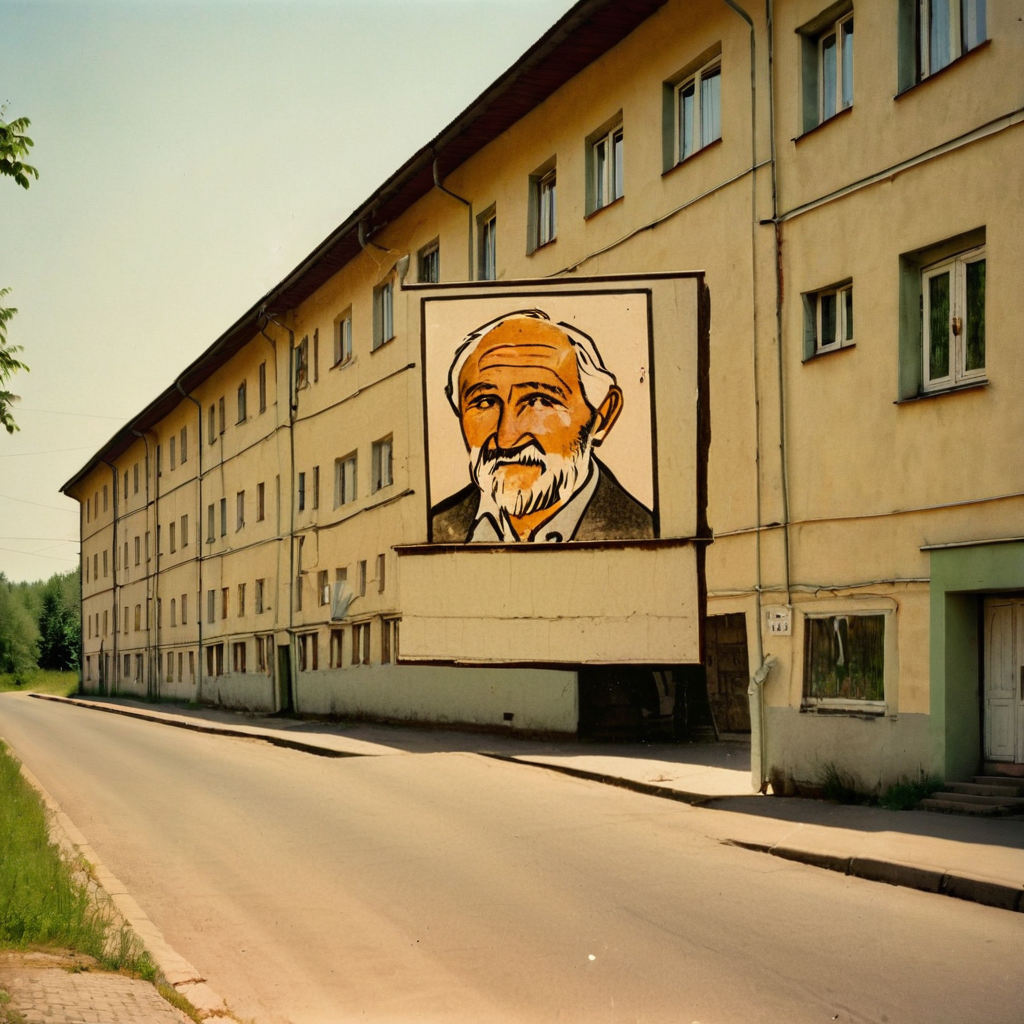
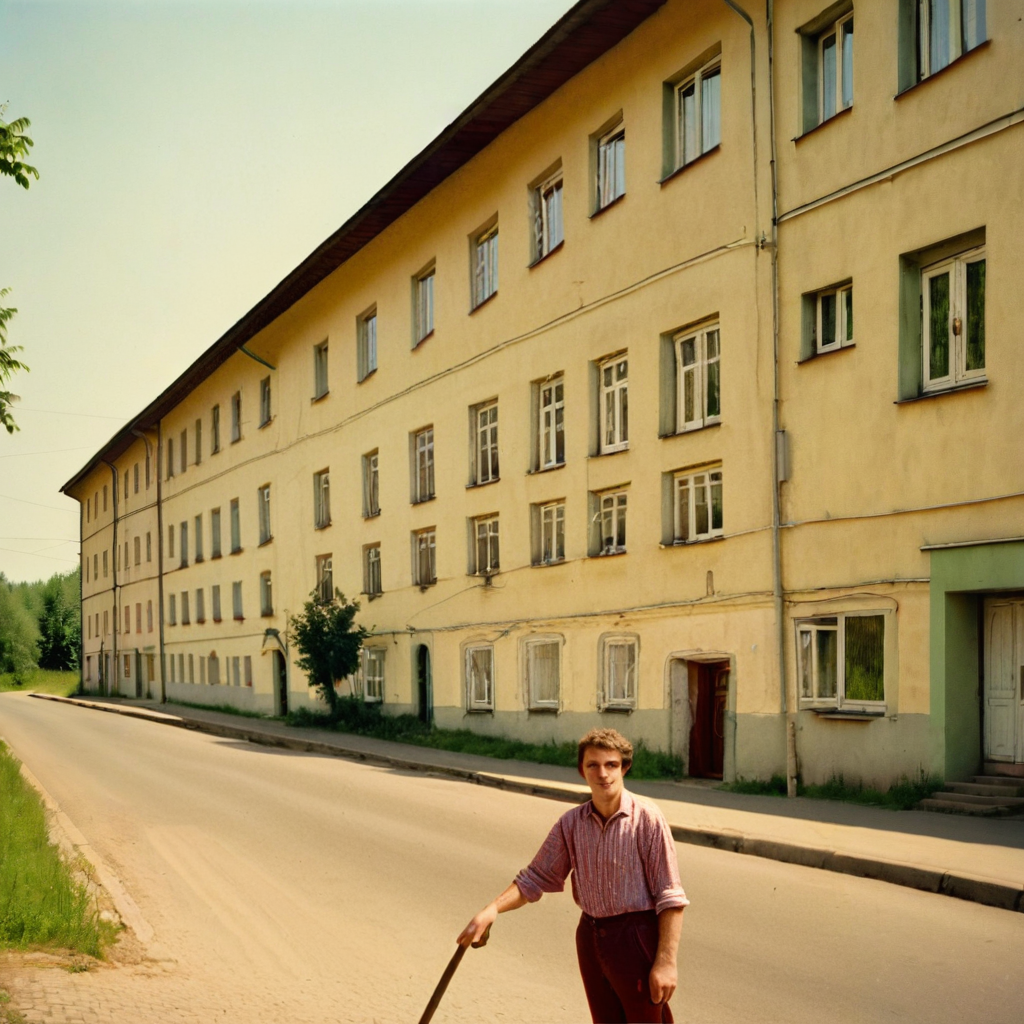
unluck: model loves back

diff --git a/cenzor_inpainter.py b/cenzor_inpainter.py
@@ -76,24 +76,24 @@ class CenzorInpainter:
 
         print(f"[Inpainter] Генерация (Steps: {num_inference_steps}, Strength: {strength})...")
 
-        # Первый текстовый кодер (CLIP ViT-L) — задает геометрию и базовую суть
+        # CLIP ViT-L — геометрия, объект и тип съемки
         prompt_healthy = (
-            f"""foreground subject, filling the scene, {composition} portrait 
-            photo of a {age} {nationality} {gender}, wearing {clothing}."""
+            f"Extreme close-up photo of {age} {nationality} {gender}, wearing {clothing}, "
+            f"waist-up portrait, medium shot, realistic skin, standing outdoors in front of a background"
         )
 
-        # Второй текстовый кодер (OpenCLIP ViT-bigG) — задает стиль, свет и детализацию
+        # OpenCLIP ViT-bigG — стилистика (без слова document!)
         prompt2_healthy = (
-            f"1980s soviet archival document portrair photo, {composition} of a {age} {nationality} {gender}, "
-            f"wearing {clothing}, natural skin texture, analogue film grain"
+            f"1980s soviet street portrait photography, film photo, medium shot of a {age} {nationality} {gender}, "
+            f"wearing {clothing}, natural skin texture, soft daylight, analogue film grain"
         )
 
-        # Негативный промпт (дублируется или разделяется аналогично)
-        negative_healthy = ("""
-            deformed face, bad anatomy, military uniform, hat, legs, full-body, distant view, small human
-            3d render, illustration, smooth plastic skin, low resolution, blurry
-        """)
-
+        # Негативный промпт — режем плакаты, рисунки и рамки
+        negative_healthy = (
+            "distant view, poster, painting, drawing, illustration, billboard, framed picture, sign, "
+            "deformed face, bad anatomy, military uniform, hat, legs, feet, full-body, "
+            "small human, 3d render, smooth plastic skin, low resolution, blurry"
+        )
         with torch.inference_mode():
             output = self.pipe(
                 prompt=prompt_healthy,

diff --git a/generator_to_inpainter.py b/generator_to_inpainter.py
@@ -52,7 +52,7 @@ citygen.generate(
 #1 Рисуем чела на фон инпейнтом
 from cenzor_inpainter import CenzorInpainter
 inpainter = CenzorInpainter()
-composition = random.choice(("close-up", "half-body"))
+composition = "close-up" #random.choice(("close-up", "half-body"))
 
 inpainted_dir = Path("gen/inpaints")
 inpainted_dir.mkdir(parents=True, exist_ok=True) # Создаст папку, если ее нет
@@ -60,12 +60,12 @@ inphuman_filename = get_next_available_filename(directory=inpainted_dir, prefix=
 background_file = random.choice(list(back_dir.glob("*.png")))
 
 inpainter.inpaint_human(background=Image.open(background_file),
-                        composition=composition,
-                        age="old", 
+                        composition="close-up",
+                        age="young", 
                         gender="man",
-                        nationality="russian", 
+                        nationality="georgian", 
                         clothing="worker suit",
-                        strength=0.9,
+                        strength=0.8,
                         denoise_steps_coef=1.0,
-                        guidance_scale=11.0
+                        guidance_scale=10.0
                         ).save(inpainted_dir/inphuman_filename)

diff --git a/maskgen.py b/maskgen.py
@@ -34,7 +34,7 @@ def generate_frame_mask(composition: str = "close-up", size: int = 1024) -> Imag
         cv2.rectangle(mask, (x_left, size - rect_h), (x_left + rect_w, size), 255, -1)
         
     else:
-        raise ValueError(f"Неизвестный shot_type: {shot_type}")
+        raise ValueError(f"Неизвестный shot_type: {composition}")
 
     # Мягкий край для SDXL
     gb = random.choice((51,61,77,91))
